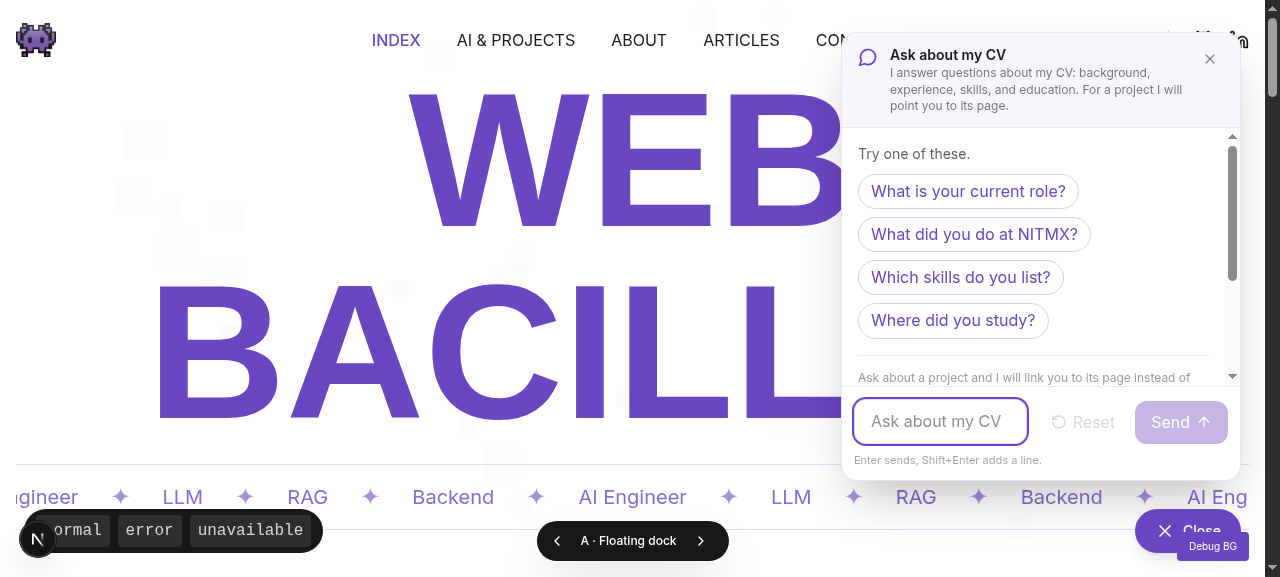
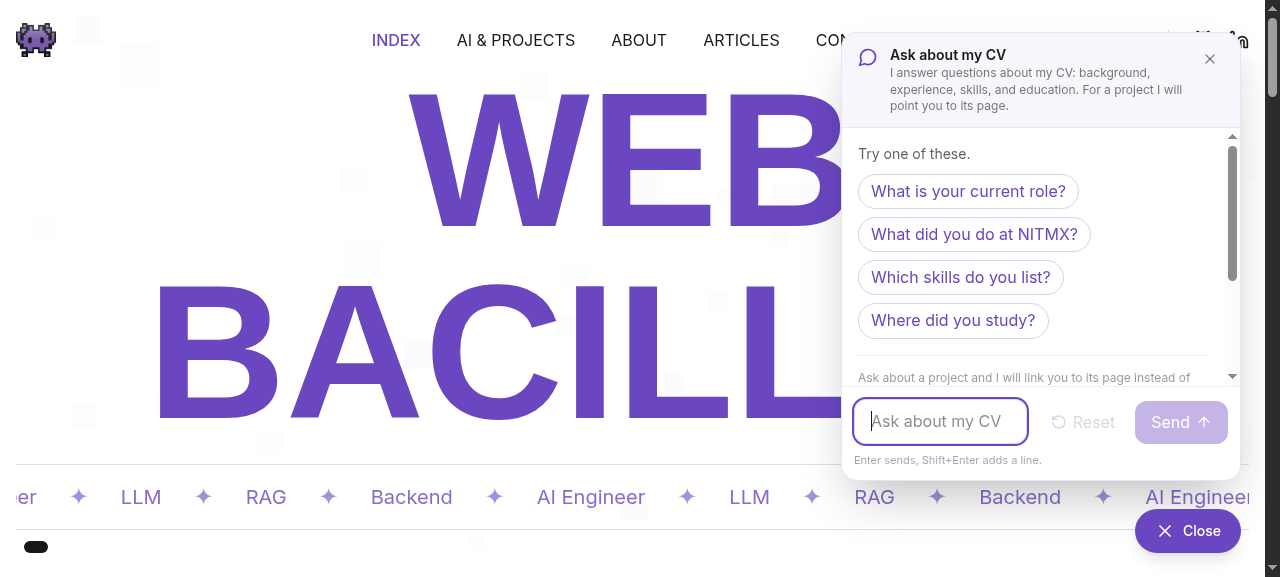
fix(portfolio): recapture prototype screenshots without the prototype chrome
The earlier shots carried the variant switcher, the state demo controls, and the
background debug button, which obscured the design the owner has to react to.

- ?clean=1 hides the switcher and the state demo controls.
- ?next=error and ?next=unavailable arm the failure states from the URL, so a
  capture script can reach them in a production build where the demo buttons
  are hidden.
- The screenshots were recaptured against a production server, so no development
  overlay is present.
- Correct the assertion count in the contract to the 86 that the check runs.

Verified: the redirect answer carries the correct path and the page's own
summary, the error state shows the retry button, and the mobile sheet fills a
390 by 844 viewport exactly.

Changed region(s): [[0.0, 0.8423, 1.0, 0.9671], [0.4062, 0.9047, 0.5938, 0.9983], [0.9062, 0.9359, 1.0, 0.9983]]

diff --git a/components/prototype/chat/mock-engine.ts b/components/prototype/chat/mock-engine.ts
@@ -41,6 +41,19 @@ export function consumePendingTrigger(): MockTrigger {
 }
 
 /**
+ * The next send produces this state instead of an answer. Lets a capture script reach
+ * the error and unavailable states without the demo buttons, which are hidden in a
+ * production build.
+ */
+export function armTriggerFromUrl() {
+  if (typeof window === "undefined") return
+  const next = new URLSearchParams(window.location.search).get("next")
+  if (next === "error" || next === "unavailable") {
+    pendingTrigger = next
+  }
+}
+
+/**
  * The suggested questions a visitor is offered. These are the CV topics the contract
  * allows, so the narrow scope is visible before anything is typed. The project questions
  * are separate and labelled, because a project question must land on a page, not in

diff --git a/components/prototype/chat/state-demo-controls.tsx b/components/prototype/chat/state-demo-controls.tsx
@@ -3,10 +3,23 @@
 
 "use client"
 
+import { Suspense } from "react"
+import { useSearchParams } from "next/navigation"
 import { setPendingTrigger } from "./mock-engine"
 
 export default function StateDemoControls({ compact = false }: { compact?: boolean }) {
+  return (
+    <Suspense fallback={null}>
+      <Controls compact={compact} />
+    </Suspense>
+  )
+}
+
+function Controls({ compact }: { compact: boolean }) {
+  const searchParams = useSearchParams()
+  // ?clean=1 hides every prototype affordance, for screenshots that show only the design.
   if (process.env.NODE_ENV === "production") return null
+  if (searchParams.get("clean") === "1") return null
 
   return (
     <div

diff --git a/components/prototype/chat/prototype-switcher.tsx b/components/prototype/chat/prototype-switcher.tsx
@@ -19,6 +19,8 @@ export function PrototypeSwitcher() {
   const searchParams = useSearchParams()
 
   const current = searchParams.get("variant") ?? "a"
+  // ?clean=1 hides every prototype affordance, for screenshots that show only the design.
+  const clean = searchParams.get("clean") === "1"
   const index = Math.max(
     0,
     PROTOTYPE_VARIANTS.findIndex((variant) => variant.key === current),
@@ -59,6 +61,7 @@ export function PrototypeSwitcher() {
   }, [index, pathname, router, searchParams])
 
   if (process.env.NODE_ENV === "production") return null
+  if (clean) return null
 
   const go = (delta: number) => {
     const next =

diff --git a/components/prototype/chat/use-prototype-chat.ts b/components/prototype/chat/use-prototype-chat.ts
@@ -5,6 +5,7 @@
 
 import { useCallback, useEffect, useRef, useState } from "react"
 import {
+  armTriggerFromUrl,
   consumePendingTrigger,
   mockAnswer,
   type ChatMessage,
@@ -15,6 +16,10 @@ export function usePrototypeChat() {
   const [messages, setMessages] = useState<ChatMessage[]>([])
   const [status, setStatus] = useState<ChatStatus>("idle")
   const timerRef = useRef<ReturnType<typeof setTimeout> | null>(null)
+
+  useEffect(() => {
+    armTriggerFromUrl()
+  }, [])
 
   useEffect(() => {
     return () => {

diff --git a/docs/chatbot/interaction-contract.md b/docs/chatbot/interaction-contract.md
@@ -265,7 +265,7 @@ suggested questions in order, then the transcript links, then the composer.
 
 The prototype runs against a mock engine, so no model is called and no key is needed.
 
-- `pnpm prototype:check` runs 82 assertions over the real source: that every catalogue
+- `pnpm prototype:check` runs 86 assertions over the real source: that every catalogue
   project redirects to its own path, that every project is reachable by its title and by
   at least one alias, that a skill is only paired with a project that has the pairing,
   that an E3 skill never carries a pairing, that the answer shape follows the question
